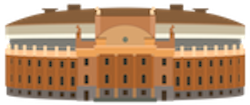
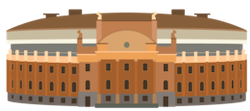
last css startmueny

diff --git a/css/Startmeny.css b/css/Startmeny.css
@@ -13,41 +13,41 @@ body::before {
 body {
   display: flex;
   flex-direction: column;
-  justify-content: center;
+  align-items: center; 
   text-align: center;
   font-family: Arial, Helvetica, sans-serif;
   color: rgb(51, 51, 51);
   margin: 0;
   padding: 0;
   height: 100vh;
+  overflow: hidden; 
 }
 
-h1 {
-  font-size: 2.5rem;
-  margin-top: 20px;
+#quizdan {
+  font-size: 4rem; 
+  margin-top: 2rem; 
   font-weight: lighter;
 }
 
 #start-text{
   font-size: 1rem; 
-  margin: 20px;
+  margin: 1rem; 
 }
 
 img {
   display: block; 
   margin: 0 auto; 
-  width: 70%; 
-  padding-top: 20px;
-  padding-bottom: 20px;
+  width: 80%; 
+  padding-top: 1rem;
   height: auto;
 }
 
 #about-button {
   position: absolute;
-  top: 20px; 
-  right: 20px; 
+  top: 1rem; 
+  right: 1rem; 
   color: rgb(51, 51, 51);
-  padding: 10px 20px;
+  padding: 0 1rem; 
   text-decoration: none; 
   font-size: 1rem; 
   font-weight: bold;
@@ -58,8 +58,8 @@ img {
   display: flex;
   justify-content: center;
   align-items: center;
-  padding: 15px 30px;
-  margin: 10px auto;
+  padding: 1rem 2rem;
+  margin: 1rem auto;
   font-size: 1.5rem; 
   background-color: rgb(51, 51, 51);
   color: white;
@@ -72,28 +72,28 @@ img {
 
 /* Mediefrågor för större skärmar */
 @media (min-width: 601px) {
-  h1 {
-    font-size: 3.5rem; 
+  #quizdan {
+    font-size: 5rem; 
   }
 
   #start-text {
     font-size: 1.5rem; 
-    margin: 20px;
+    margin: 1.5rem;
   }
 
   img { 
-    width: 40%; 
-    padding-bottom: 50px;
+    width: 50%; 
+    padding-bottom: 2rem;
   }
 
   #start-button {
-    padding: 20px 50px;
+    padding: 1.5rem 3rem;
     font-size: 2rem; 
-    margin: 20px auto;
+    margin: 2rem auto;
   }
 
   #about-button {
     font-size: 1.5rem; 
-    padding: 10px 20px;
+    padding: 0.75rem 1.5rem;
   }
 }

diff --git a/js/components/startmenyComp.js b/js/components/startmenyComp.js
@@ -14,12 +14,12 @@ export default {
     },
     template: `<div class="comp">
                     <a href="omOss.html" id="about-button">Om oss</a>
-                    <h1>Quizdan</h1>
+                    <div id="quizdan">Quizdan</div>
                     <img src="images/riksdagenBig.png">
   
                     <div id="start-text">
                         <p>Ett quiz för dig som vill lära dig<br>
-                         mer om ledamöterna i den<br>
+                        mer om ledamöterna i den<br>
                         svenska riksdagen.<br>
                         </p>
                         <p>

diff --git a/StartmenyVue.html b/StartmenyVue.html
@@ -3,6 +3,7 @@
 
 <head>
   <title>Quizdan</title>
+  <meta name="viewport" content="width=device-width, initial-scale=1.0">
   <link rel="stylesheet" type="text/css" href="css\Startmeny.css">
   <script defer src="https://unpkg.com/vue@3.4.21"
         integrity="sha384-8CdW77YPqMZ3v22pThUIR22Qp1FB5oisZG2WE3OpE0l1fTHAIsdIwjQZFf/rmQ/B"
